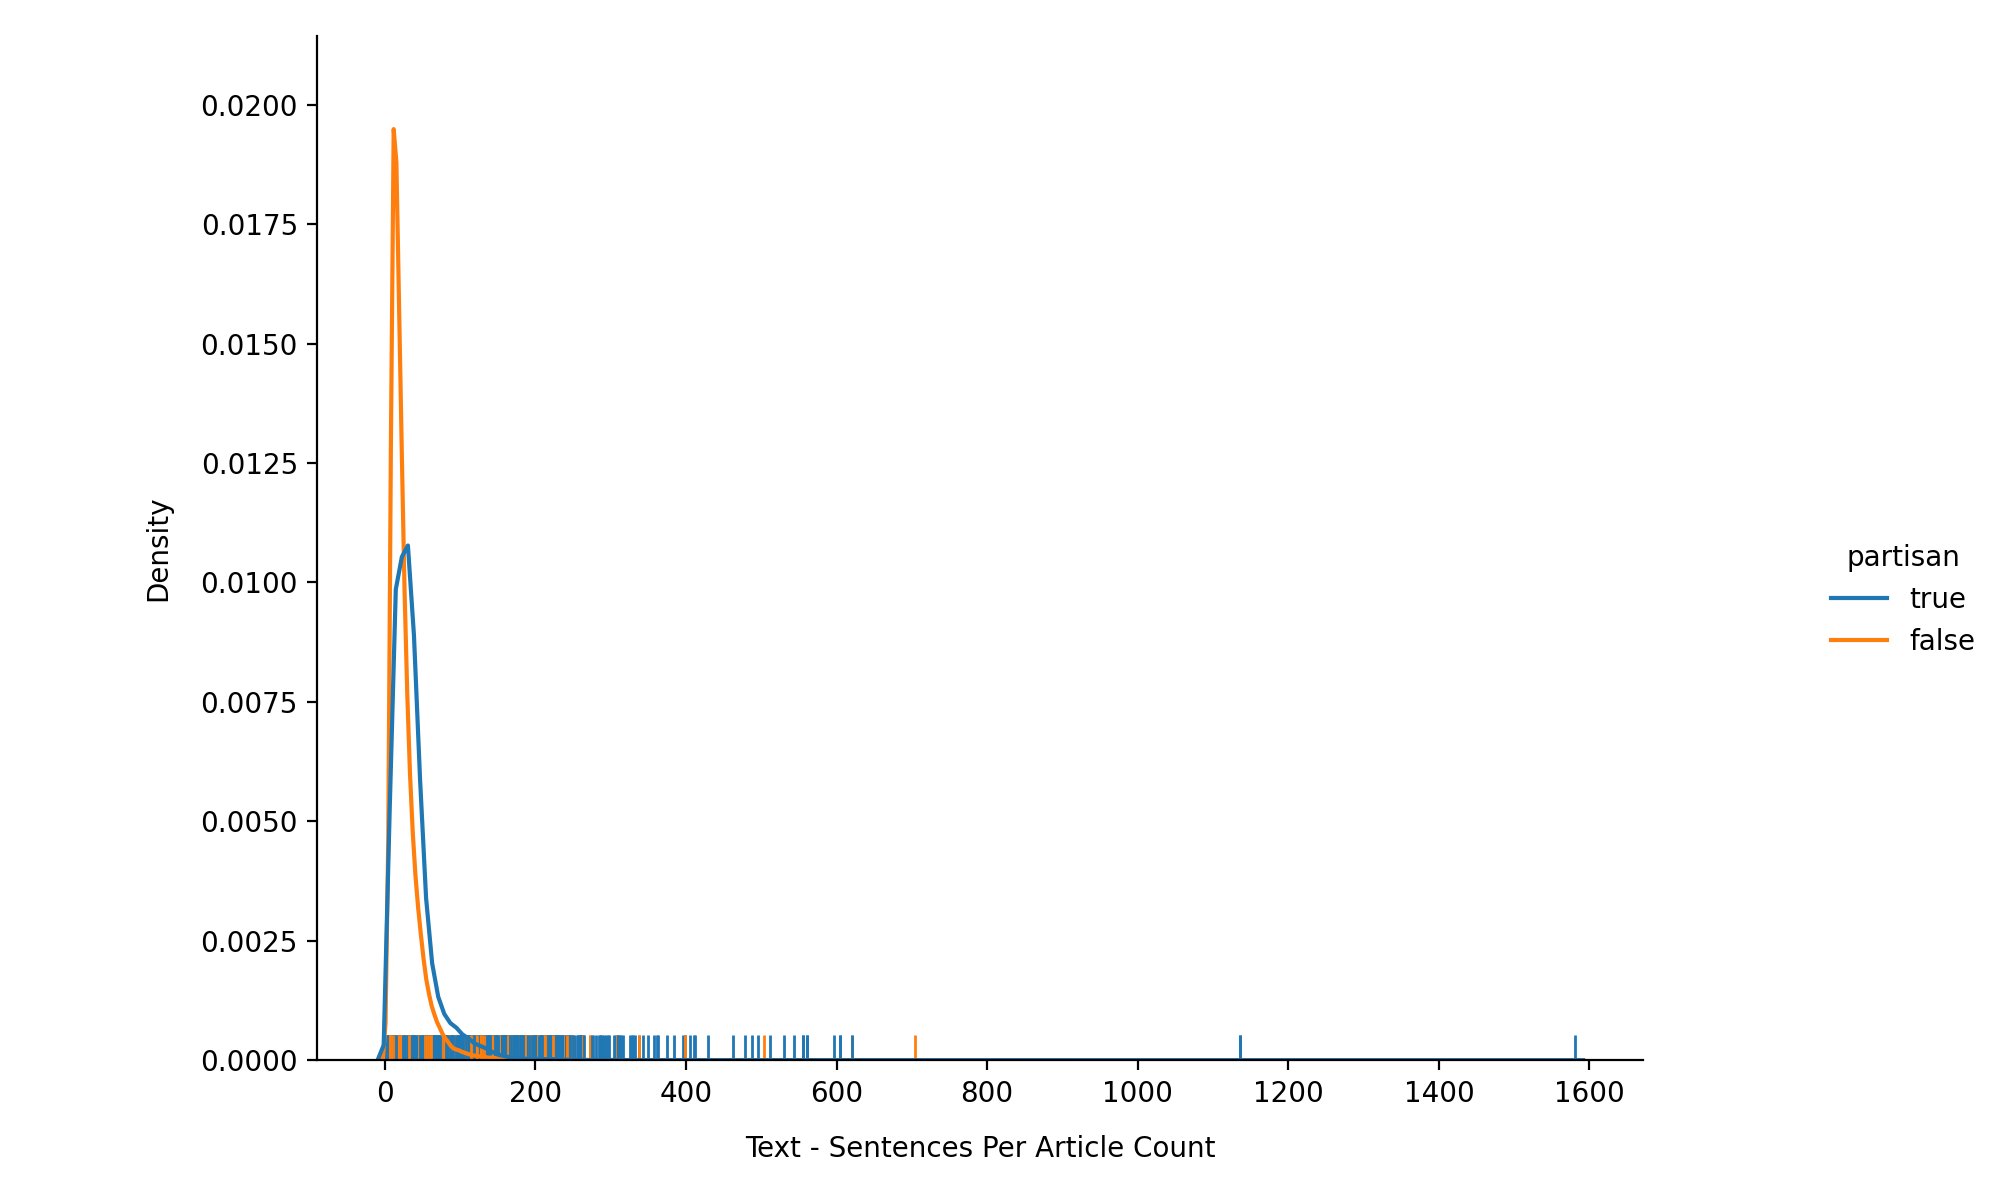
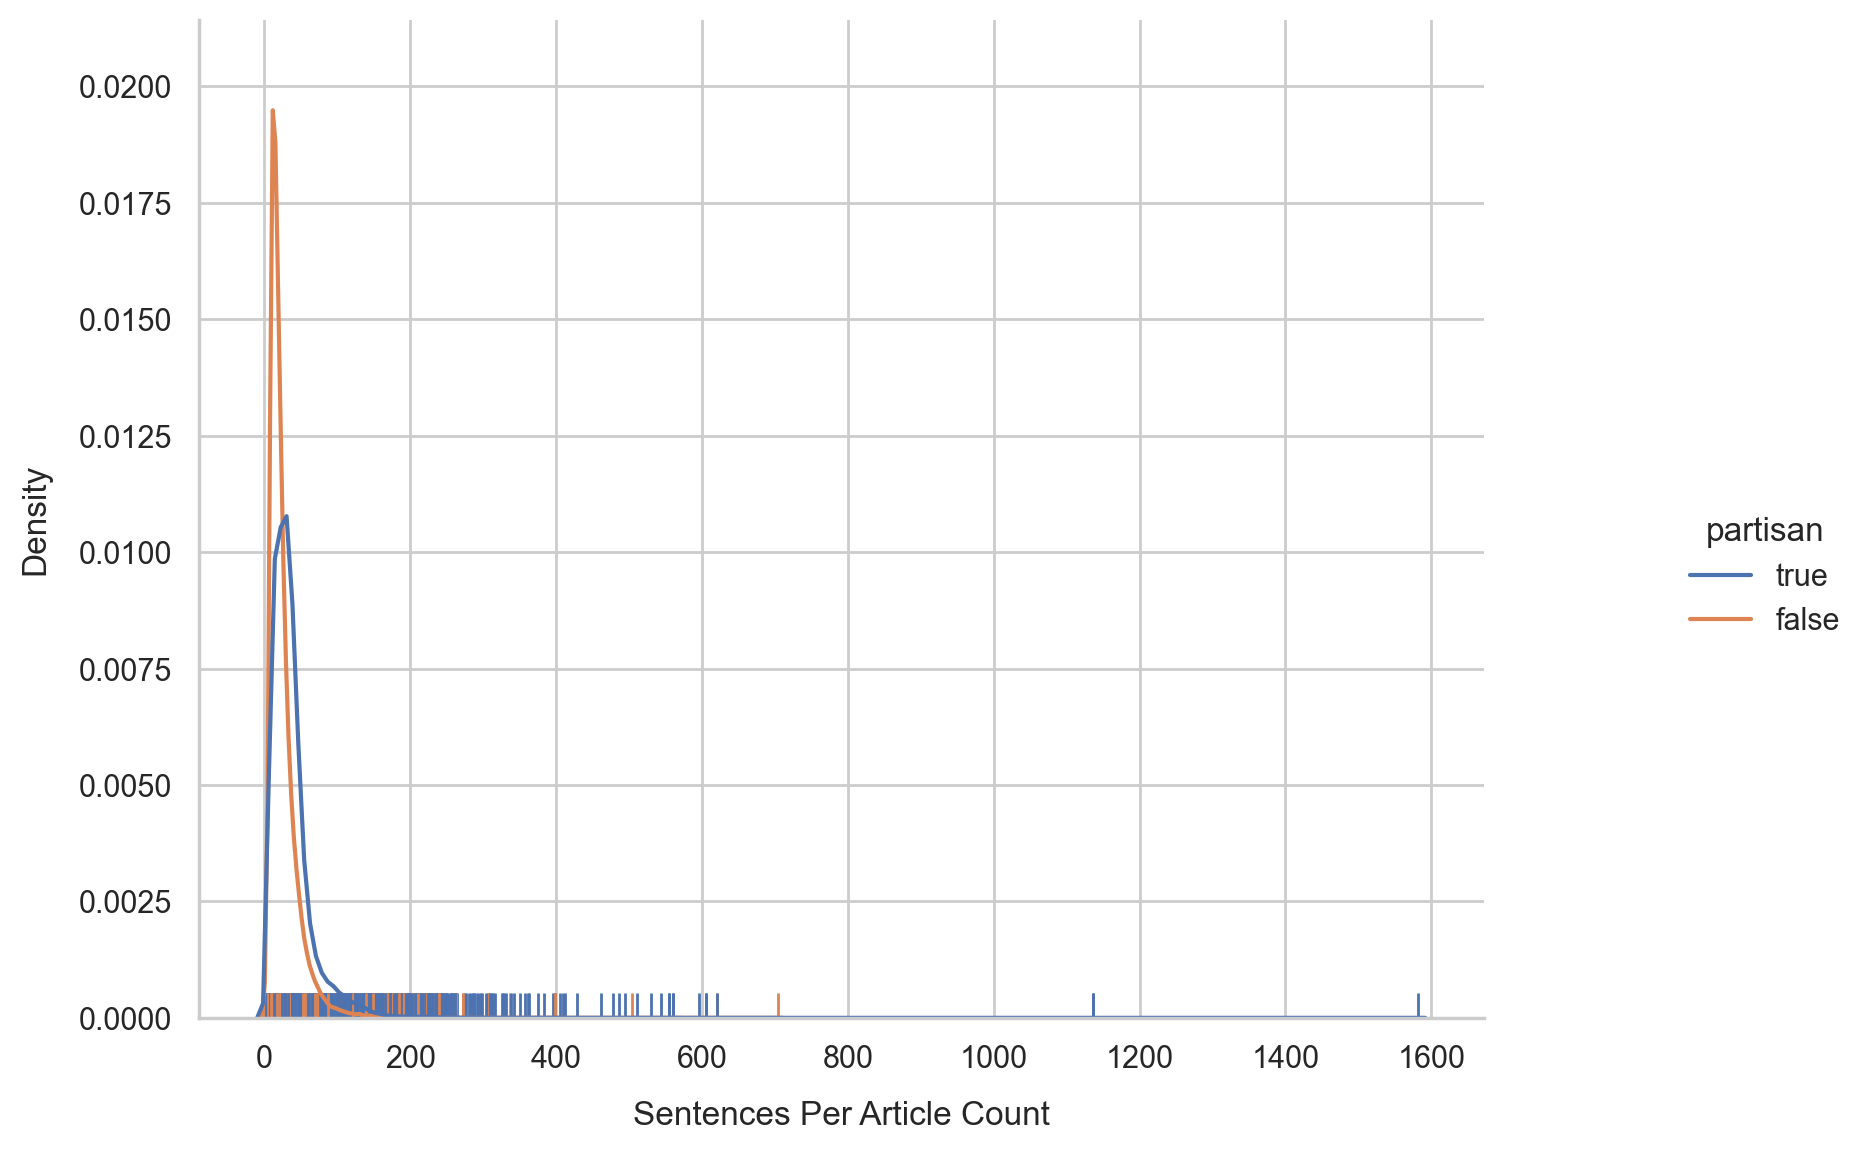
Added pretrain script file. Updated EDA and Readme.

diff --git a/mlm_pretrain_mbert_xlmroberta.py b/mlm_pretrain_mbert_xlmroberta.py
@@ -1,0 +1,96 @@
+# Import Modules
+import pandas as pd
+import numpy as np 
+from sklearn.model_selection import train_test_split
+from tqdm import tqdm
+from transformers import *
+
+# Custom Code
+from dataset import *
+
+# Constants
+MAX_LEN = 512
+EPOCHS = 2
+VERBOSE = 1
+CACHE_DIR = './'
+SEED = 1000
+LR = 0.000015
+TEST_SIZE = 0.10
+
+# Set Model Type .. Set to the following:
+# 1. 'bert-base-multilingual-cased'    for Multilingual BERT model
+# 2. 'xlm-roberta-base'                for Multi-lingual XLM-RoBERTa model
+model_type = 'xlm-roberta-base'
+print(f'Model Type: {model_type}')
+
+# Set Config
+config = AutoConfig.from_pretrained(model_type)
+print(config)
+
+# Set Tokenizer
+tokenizer = AutoTokenizer.from_pretrained(model_type, add_prefix_space = False, do_lower_case = False)
+print(tokenizer)
+
+# Set MLM Model
+model = AutoModelForMaskedLM.from_pretrained(model_type)
+
+# Download DpgNews Files
+download_articles_by_publisher(CACHE_DIR)
+
+# Get DpgNews Dataframe
+dpgnews_df = get_dpgnews_df(CACHE_DIR)
+
+# Split into Train and Validation
+train_df, val_df = train_test_split(dpgnews_df, test_size = TEST_SIZE, random_state = SEED, shuffle = True)
+
+# Save Train Text File
+with open('train_text.txt', 'w', encoding = 'utf-8') as f:
+    for line in train_df.text.values.tolist():
+        f.write(line + '\n')
+    
+# Save Validation Text File
+with open('val_text.txt', 'w', encoding = 'utf-8') as f:
+    for line in val_df.text.values.tolist():
+        f.write(line + '\n')
+
+# Create Train Dataset
+train_dataset = LineByLineTextDataset(tokenizer = tokenizer,
+                                      file_path = 'train_text.txt',
+                                      block_size = MAX_LEN)
+
+# Create Validation Dataset
+valid_dataset = LineByLineTextDataset(tokenizer = tokenizer,
+                                      file_path = 'val_text.txt',
+                                      block_size = MAX_LEN)
+
+# Create Data Collator
+datacollator = DataCollatorForLanguageModeling(tokenizer = tokenizer, 
+                                               mlm = True, 
+                                               mlm_probability = 0.15)
+
+# Set Training Arguments
+training_args = TrainingArguments(output_dir = f'./mlm_pretrain/{model_type}/',
+                                  learning_rate = LR,
+                                  warmup_ratio = 0.10,
+                                  gradient_accumulation_steps = 8,
+                                  overwrite_output_dir = True,
+                                  num_train_epochs = EPOCHS,
+                                  per_device_train_batch_size = 2,
+                                  per_device_eval_batch_size = 2,
+                                  evaluation_strategy = 'steps',
+                                  save_total_limit = 1,
+                                  eval_steps = 1000,
+                                  metric_for_best_model = 'eval_loss',
+                                  greater_is_better = False,
+                                  load_best_model_at_end = True,
+                                  prediction_loss_only = True)
+
+# Set Trainer
+trainer = Trainer(model = model,
+                  args = training_args,
+                  data_collator = datacollator,
+                  train_dataset = train_dataset,
+                  eval_dataset = valid_dataset)
+
+# Train MLM Model
+trainer.train()

diff --git a/eda.py b/eda.py
@@ -34,6 +34,9 @@ download_articles_by_publisher(CACHE_DIR)
 # Get DpgNews Dataframe
 dpgnews_df = get_dpgnews_df(CACHE_DIR)
 
+# Set Seaborn Style
+sns.set_theme(style = "whitegrid")
+
 # Get Counts for Title, Text, Sentences and Partisan Labels
 dpgnews_df['title_wordcount'] = dpgnews_df.title.str.split(' ').str.len()
 dpgnews_df['text_wordcount'] = dpgnews_df.text.str.split(' ').str.len()
@@ -49,16 +52,16 @@ print(dpgnews_df.text_sentence_count.value_counts().sort_index())
     
 # Plot Words Count
 g = sns.displot(dpgnews_df, kind = 'kde', rug = True, x = 'text_wordcount', hue = 'partisan')
-g.set_axis_labels("Text - Words Per Article Count", 'Density', labelpad = 10)
+g.set_axis_labels('Words Per Article Count', 'Density', labelpad = 10)
 g.fig.set_size_inches(10, 6)
-plt.savefig(f'{model_type}_plot_text_words_count.png', dpi = 200)
+g.savefig(f'{model_type}_plot_text_words_count.png', dpi = 200)
 plt.close()
 
 # Plot Sentence Count
 g = sns.displot(dpgnews_df, kind = 'kde', rug = True, x = 'text_sentence_count', hue = 'partisan')
-g.set_axis_labels("Text - Sentences Per Article Count", 'Density', labelpad = 10)
+g.set_axis_labels('Sentences Per Article Count', 'Density', labelpad = 10)
 g.fig.set_size_inches(10, 6)
-plt.savefig(f'{model_type}_plot_text_sentences_count.png', dpi = 200)
+g.savefig(f'{model_type}_plot_text_sentences_count.png', dpi = 200)
 plt.close()
 
 # Get Token Count / PLot Token Count
@@ -71,9 +74,9 @@ for index, row in tqdm(dpgnews_df.iterrows(), total = dpgnews_df.shape[0]):
     input_encoded = tokenizer.encode_plus(text, add_special_tokens = True)
     dpgnews_df.loc[index, 'text_token_count'] = len(input_encoded['input_ids']) 
 g = sns.displot(dpgnews_df, kind = 'kde', rug = True, x = 'text_token_count', hue = 'partisan')
-g.set_axis_labels(f'Text {model_type} Tokens Per Article Count', 'Density', labelpad = 10)
+g.set_axis_labels(f'Tokens Per Article Count - Model Type: {model_type}', 'Density', labelpad = 10)
 g.fig.set_size_inches(10, 6)
-plt.savefig(f'{model_type}_plot_text_token_count.png', dpi = 200)
+g.savefig(f'{model_type}_plot_text_token_count.png', dpi = 200)
 plt.close()
 
 # Text Token Counts Smaller/Greater than 512 .. which is max input size for Transformers model

diff --git a/README.md b/README.md
@@ -19,7 +19,7 @@ Ideas that I'am currently researching/coding/experimenting:
 - Use MBERT and XLM-RoBERTa as feature extractors and perform classification with SVM.
 - Train and evaluate mT5 and ByT5 as classifiers.
 
-The remaining ideas should be completed in the next few weeks (July 2021)
+The remaining ideas should be completed in the period of July-August 2021
 
 Note! If anyone is aware of more multi-lingual models that support Dutch and you would like me to add those...put in a request through an Issue.
 
@@ -51,7 +51,21 @@ The achieved performance can be seen in below table. XLM-RoBERTa scores slightly
 
 ## Exploratory Data Analysis
 
-<< To Be Documented Soon ... >>
+The python script 'eda.py' performs a simple Exploratory Data Analysis of the used dataset when run. The next image shows a distribution plot of the count of sentences per news article separated by partisan lable.
+
+![Distribution plot of sentences count per article](images/xlm-roberta-base_plot_text_sentences_count.png)
+
+The next image shows a distribution plot of the count of individual words per news article separated by partisan lable. While there are some extreme outliers the majority of articles has less than 1000 - 1500 words per article.
+
+![Distribution plot of individual word count per article](images/xlm-roberta-base_plot_text_words_count.png)
+
+The used Multilingual Transformer models have a maximum input size length of 512 tokens. Each news article will be tokenized and any sequence of tokens longer then 512 tokens will be truncated. While this process will lead to some loss of information I will still use it this way to have a generic approach accross all models. 
+
+If we compare this to the pre-transformers way of NLP we would also remove stop words, remove punctuation, perform stemming or lemmatization. So while in a different way we would also lose information. 
+
+The following distribution plot shows the token count (without truncation...) per news article separated by partisan lable. This will give an impression of the amount of information lost when truncation will be performed. The tokenization count is based on the tokenizer as is used for the 'xlm-roberta' model.
+
+![Distribution plot of token count per article](images/xlm-roberta-base_plot_text_token_count.png)
 
 ## References
 
